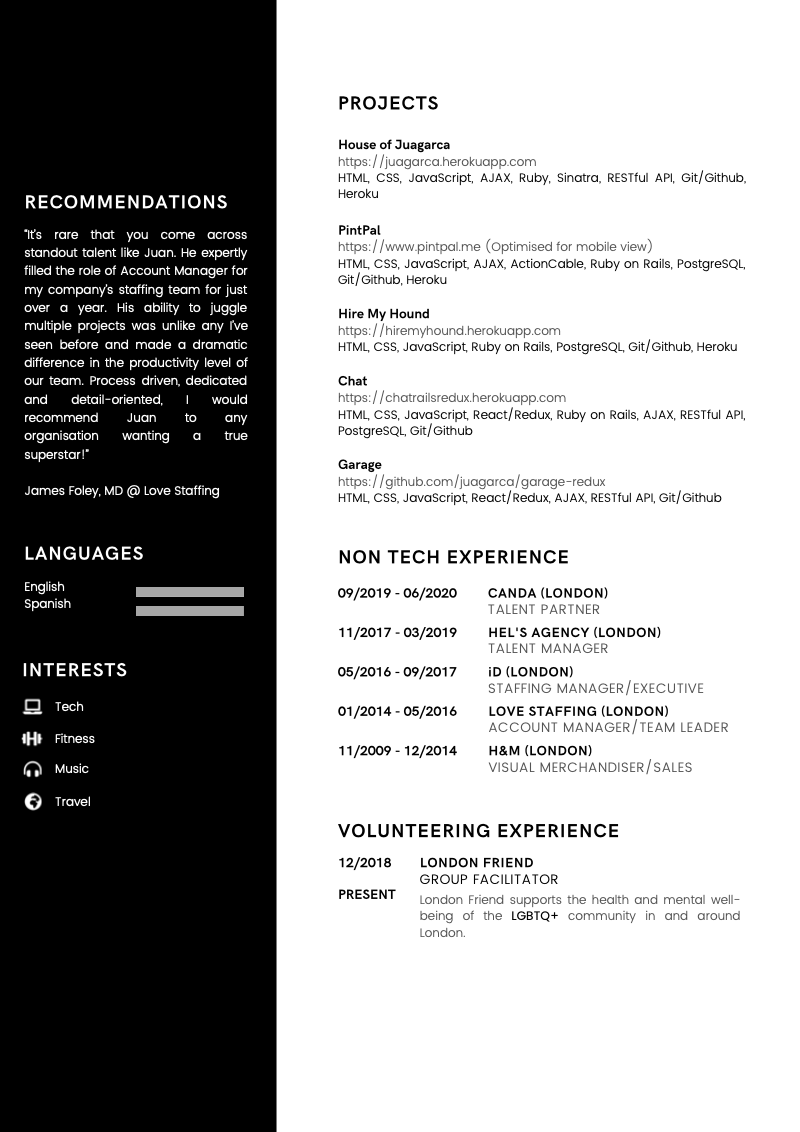
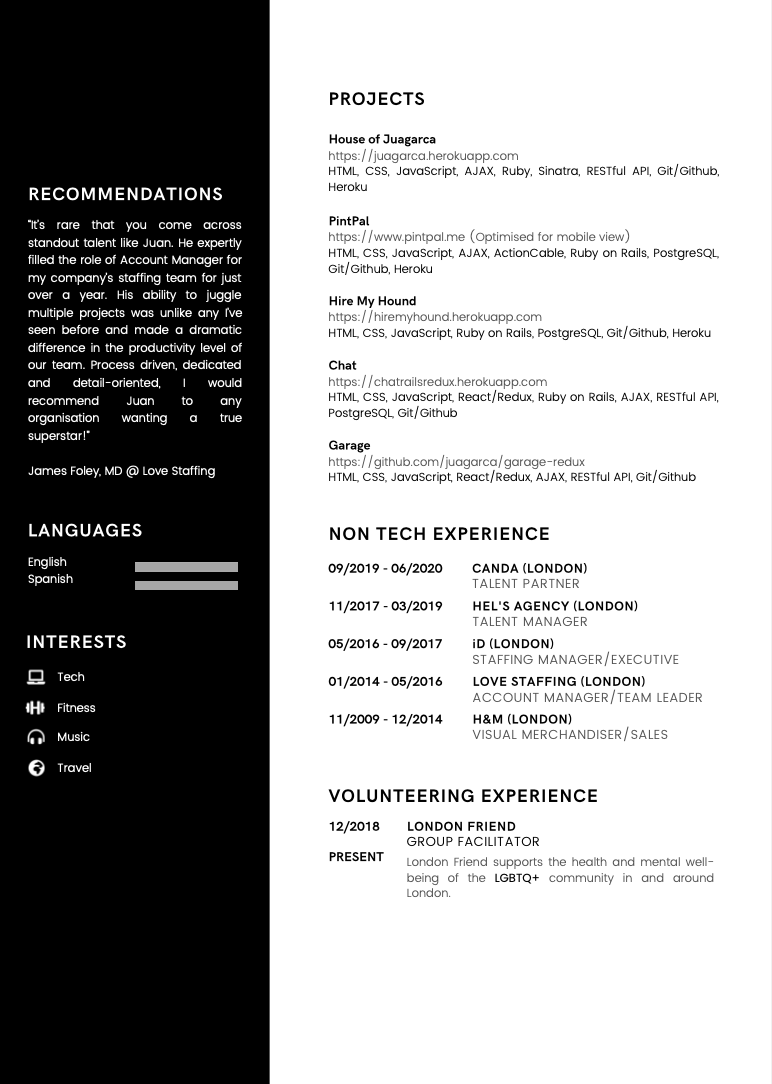
updated cv link and photos

diff --git a/public/application.js b/public/application.js
@@ -163,7 +163,7 @@ const summaryHTML =
     <div id="story-marquee" class="marquee"><h2>The Story So Far</h2></div>
     <p>Even though I worked as a <mark style="background-color: #0D1117; color: white;">Junior Dev</mark> 🧑🏻💻 right after finishing my degree, when I came to London I found difficult to find a Dev role</p>
     <p style="color: white; font-size: 16px;">I ended up securing a job in well known retailer and decided to take it as I needed to start earning 💰</p>
-    <p>Since that point, I gained experience in different roles and industries. However, something is always been missing. Full details of my experience can be found on my <a style="color: #white;"target="_blank" href="https://www.linkedin.com/in/juagarca">LinkedIn</a> or <a style="color: #white;"target="_blank" href="https://drive.google.com/file/d/1M-MM_EyMbpCoZAAi_C--HIuTviJ18ahZ/view?usp=sharing">CV</a></p>
+    <p>Since that point, I gained experience in different roles and industries. However, something is always been missing. Full details of my experience can be found on my <a style="color: #white;"target="_blank" href="https://www.linkedin.com/in/juagarca">LinkedIn</a> or <a style="color: #white;"target="_blank" href="https://drive.google.com/file/d/1H6HaIIZTF3muL4cZXoXDlEiMqOmLSRoE/view?usp=sharing">CV</a></p>
     <p style="color: white; font-size: 16px;">Retail | Events | Experiential Marketing | Recruitment  <span id="next-present" class="project-button" onClick="resetPresentMarquee();">Next</span></p>
   </div>
   <br> <br> <br> <br> <br> <br> <br><br> <br><br><br> <br><br><br> <br><br><br><br>
@@ -172,7 +172,7 @@ const summaryHTML =
   <div style="display: flex;" >
     <div>
       <div id="present-marquee" class="marquee"><h2 style="text-align:right;">At Present</h2></div>
-      <p style="text-align: right;">I have restarted my tech career 🙌🏼 and this is how the <mark style="background-color: #0D1117; color: white;">House of Juagarca</mark> was born</p>
+      <p style="text-align: right;">I have restarted my tech career 🙌🏼 and this is how the <mark style="background-color: #0D1117; color: white;">House of Juagarca</mark> was born!</p>
       <p style="text-align: right;">In 2020 I graduated from <mark style="background-color: #0D1117; color: white;">Le Wagon</mark> the world's best coding bootcamp and it was one of the best experiences in my life 😃</p>
       <p style="color: white; font-size: 15px; text-align: right;">This is going to be a great year and along joining an awesome company, I will be working on my <mark style="background-color: #0D1117; color: white;">projects</mark> which I will be addding to the<a title="Projects" style="cursor: pointer;"><i class="fas fa-tools button" style="margin-right: 8px;"></i></a>section, also available on <a style="color: #74767A;"target="_blank" href="https://www.github.com/juagarca">Github</a>       <span style="text-align: center;" id="next-interest" class="project-button" onClick="resetInterestsMarquee()";>Next</span></p>
     </div>
@@ -361,6 +361,12 @@ function deleteProjectsAndAddChat() {
 
   projects.insertAdjacentHTML('beforeEnd', chatHTML);
   setTimeout(deleteProjectCardsAndAddChat, 0);
+  // Scroll to top
+  document.getElementById('top').scrollIntoView({
+    behavior: "smooth",
+    block: "start",
+    inline: "nearest"
+  });
 }
 
 //Delete project cards and add Garage Project
@@ -392,6 +398,12 @@ function deleteProjectsAndAddGarage() {
 
   projects.insertAdjacentHTML('beforeEnd', garageHTML);
   setTimeout(deleteProjectCardsAndAddGarage, 0);
+  // Scroll to top
+  document.getElementById('top').scrollIntoView({
+    behavior: "smooth",
+    block: "start",
+    inline: "nearest"
+  });
 }
 
 //click event for home button
@@ -524,12 +536,6 @@ projectBtns.forEach((projectBtn) => {
 
     // Click event for chatCard
     chatCard.addEventListener('click', (event) => {
-      // Scroll to top of container
-      document.getElementById('top').scrollIntoView({
-        behavior: "smooth",
-        block: "start",
-        inline: "nearest"
-      });
 
       pintpalCard.classList.remove('show-card');
       hiremyhound.classList.remove('show-card');
@@ -547,12 +553,6 @@ projectBtns.forEach((projectBtn) => {
 
     // Click event for garageCard
     garageCard.addEventListener('click', (event) => {
-      // Scroll to top of container
-      document.getElementById('top').scrollIntoView({
-        behavior: "smooth",
-        block: "start",
-        inline: "nearest"
-      });
 
       pintpalCard.classList.remove('show-card');
       hiremyhound.classList.remove('show-card');
@@ -572,7 +572,7 @@ projectBtns.forEach((projectBtn) => {
 
 const cvHTML =
   `<h2>CV</h2>
-  <a href="https://drive.google.com/file/d/1M-MM_EyMbpCoZAAi_C--HIuTviJ18ahZ/view?usp=sharing" target="_blank" style="display: flex; justify-content: space-between; margin-top: 40px;">
+  <a href="https://drive.google.com/file/d/1H6HaIIZTF3muL4cZXoXDlEiMqOmLSRoE/view?usp=sharing" target="_blank" style="display: flex; justify-content: space-between; margin-top: 40px;">
     <img class="cv" src="images/CV-1.png" alt="CV" width="300" style="border: 1px solid rgba(255, 255, 255, 0.2);" title="Click to download!">
     <img class="cv" src="images/CV-2.png" alt="CV" width="300" style="border: 1px solid rgba(255, 255, 255, 0.2);" title="Click to download!">
   </a>`;
